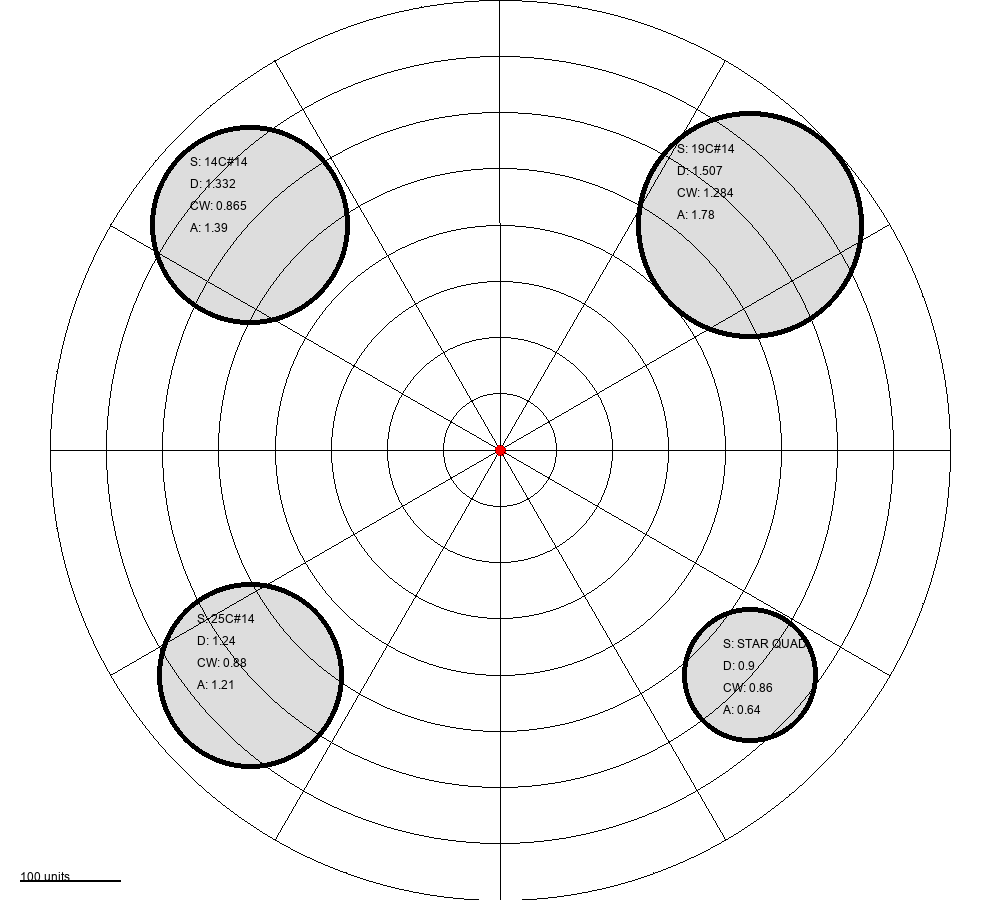
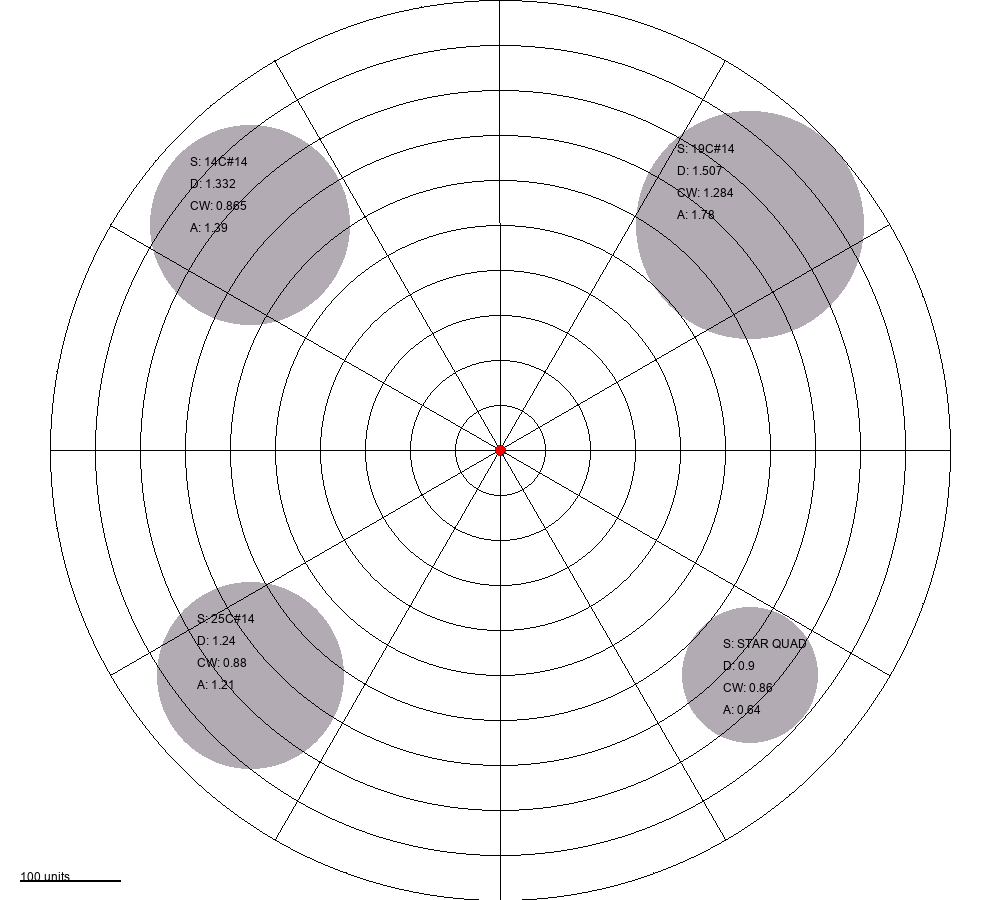
Refined polar graph

diff --git a/visualizer.py b/visualizer.py
@@ -1,66 +1,3 @@
-# from file_handler import *
-# from PIL import Image, ImageDraw, ImageFont
-#
-#
-# def generate_cable_image(cables):
-#     # Define the image size and other parameters
-#     image_size = (1000, 900)  # Higher resolution image size
-#     text_margin = 10  # Decreased margin
-#     font_size = 12  # Larger font size
-#     offset_x = 40  # Offset in the x-direction
-#     offset_y = 40  # Offset in the y-direction
-#
-#     # Calculate the quadrant size based on the image size
-#     quadrant_size = (image_size[0] // 2, image_size[1] // 2)
-#
-#     # Create a new image with a white background
-#     image = Image.new("RGB", image_size, "white")
-#     draw = ImageDraw.Draw(image)
-#
-#     for i, cable in enumerate(cables):
-#         # Calculate the scaled radius based on the cable's diameter
-#         diameter = cable.diameter
-#         scaling_factor = 150  # Increase the scaling factor
-#         cable_radius = diameter * scaling_factor / 2  # Adjust the scaling factor here
-#
-#         # Calculate the coordinates for the center of the quadrant based on the index
-#         center_x = (i % 2) * quadrant_size[0] + quadrant_size[0] // 2
-#         center_y = (i // 2) * quadrant_size[1] + quadrant_size[1] // 2
-#         center = (center_x, center_y)
-#
-#         # Draw the cable as a filled circle with a border
-#         cable_color = "gray"  # Set the circle color to gray
-#         cable_outline_color = "black"
-#         cable_outline_width = 5  # Thicker outline
-#         cable_bbox = (
-#             center[0] - cable_radius,
-#             center[1] - cable_radius,
-#             center[0] + cable_radius,
-#             center[1] + cable_radius,
-#         )
-#         draw.ellipse(cable_bbox, fill=cable_color, outline=cable_outline_color, width=cable_outline_width)
-#
-#         # Create a text label with the cable information
-#         text_x = center_x - cable_radius + offset_x  # Add x-direction offset
-#         text_y = center_y - cable_radius - text_margin + offset_y  # Add y-direction offset
-#         text_color = "black"
-#         font = ImageFont.truetype("arial.ttf", font_size)  # Set the font size
-#         text_lines = [
-#             f"S: {cable.size}",
-#             f"D: {cable.diameter}",
-#             f"CW: {cable.pounds_per_foot}",
-#             f"A: {cable.cross_sectional_area}",
-#         ]
-#         for line in text_lines:
-#             draw.text((text_x, text_y), line, fill=text_color, font=font)
-#             text_y += font_size + 10  # Adjust the vertical spacing
-#
-#     # Save the image to a file or display it
-#     image.save("cable_image.png", dpi=(300, 300))  # Higher resolution (300 DPI)
-#     image.show()
-#
-# get_cable_sizes()
-# generate_cable_image(cable_sizes[7:11])  # Extract cables from indices 7 to 10 (inclusive)
 from file_handler import *
 from PIL import Image, ImageDraw, ImageFont
 import math
@@ -93,17 +30,15 @@ def generate_cable_image(cables):
         center_y = (i // 2) * quadrant_size[1] + quadrant_size[1] // 2
         center = (center_x, center_y)
 
-        # Draw the cable as a filled circle with a border
-        cable_color = "#DDDDDD"  # Lighter gray color
-        cable_outline_color = "black"
-        cable_outline_width = 5  # Thicker outline
+        # Draw the cable as a filled circle
+        cable_color = "#B2ABB3"  # Darker shade of gray
         cable_bbox = (
             center[0] - cable_radius,
             center[1] - cable_radius,
             center[0] + cable_radius,
             center[1] + cable_radius,
         )
-        draw.ellipse(cable_bbox, fill=cable_color, outline=cable_outline_color, width=cable_outline_width)
+        draw.ellipse(cable_bbox, fill=cable_color)
 
         # Create a text label with the cable information
         text_x = center_x - cable_radius + offset_x  # Add x-direction offset
@@ -152,7 +87,7 @@ def generate_cable_image(cables):
         draw.line([line_start, line_end], fill="black", width=1)
 
     # Draw grid lines
-    num_grid_lines = 8  # Adjust the number of grid lines
+    num_grid_lines = 10  # Adjust the number of grid lines
     for i in range(num_grid_lines):
         radius = polar_graph_radius * (i + 1) / num_grid_lines
         draw.ellipse(
